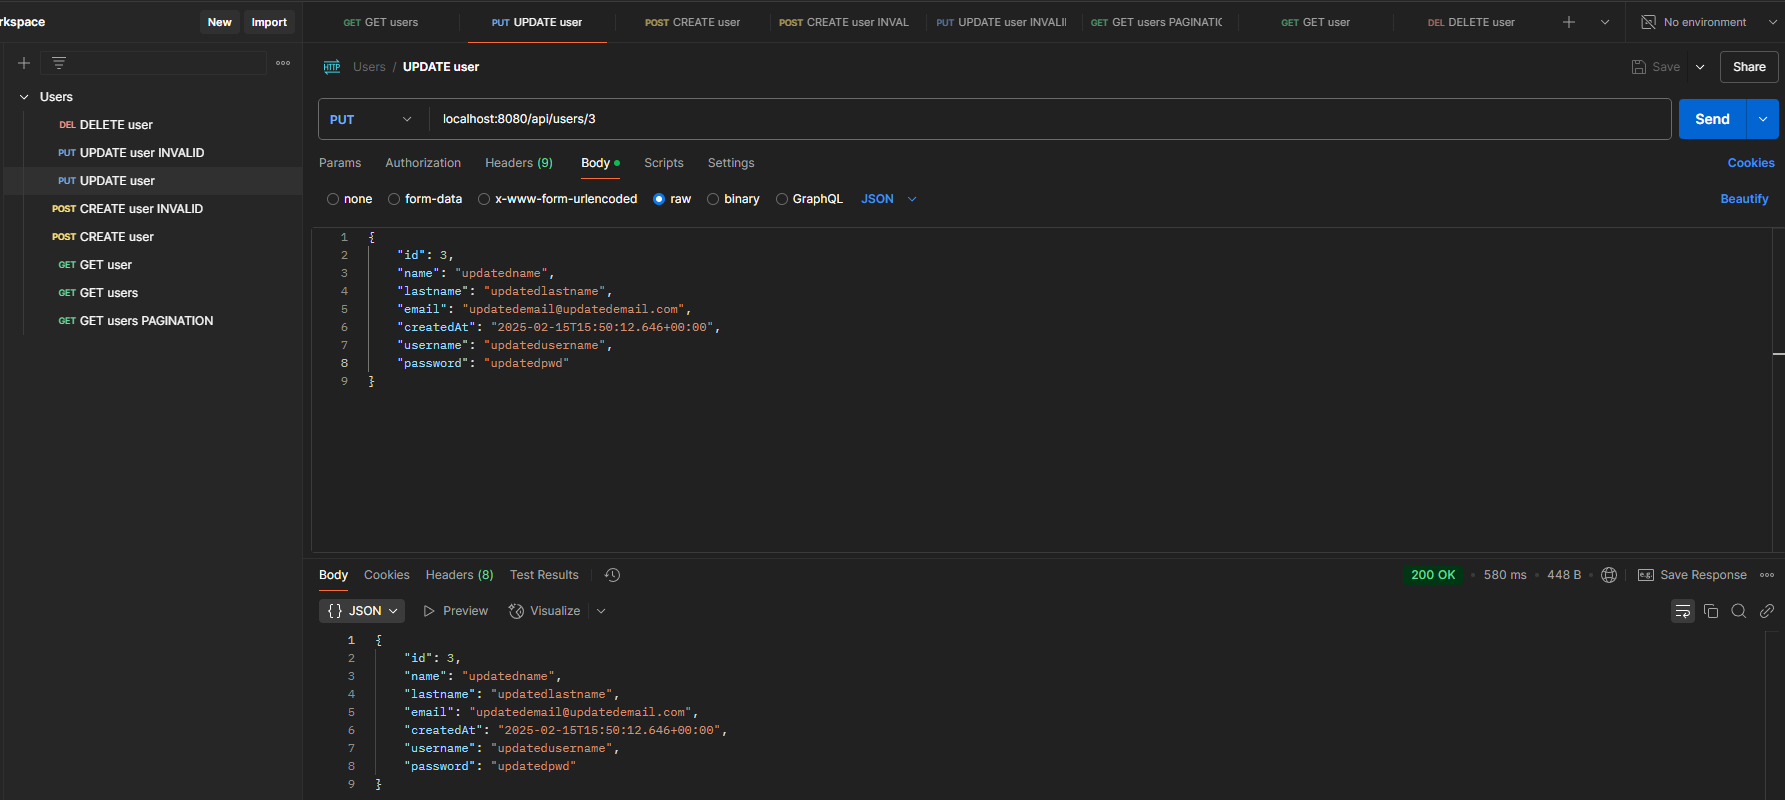
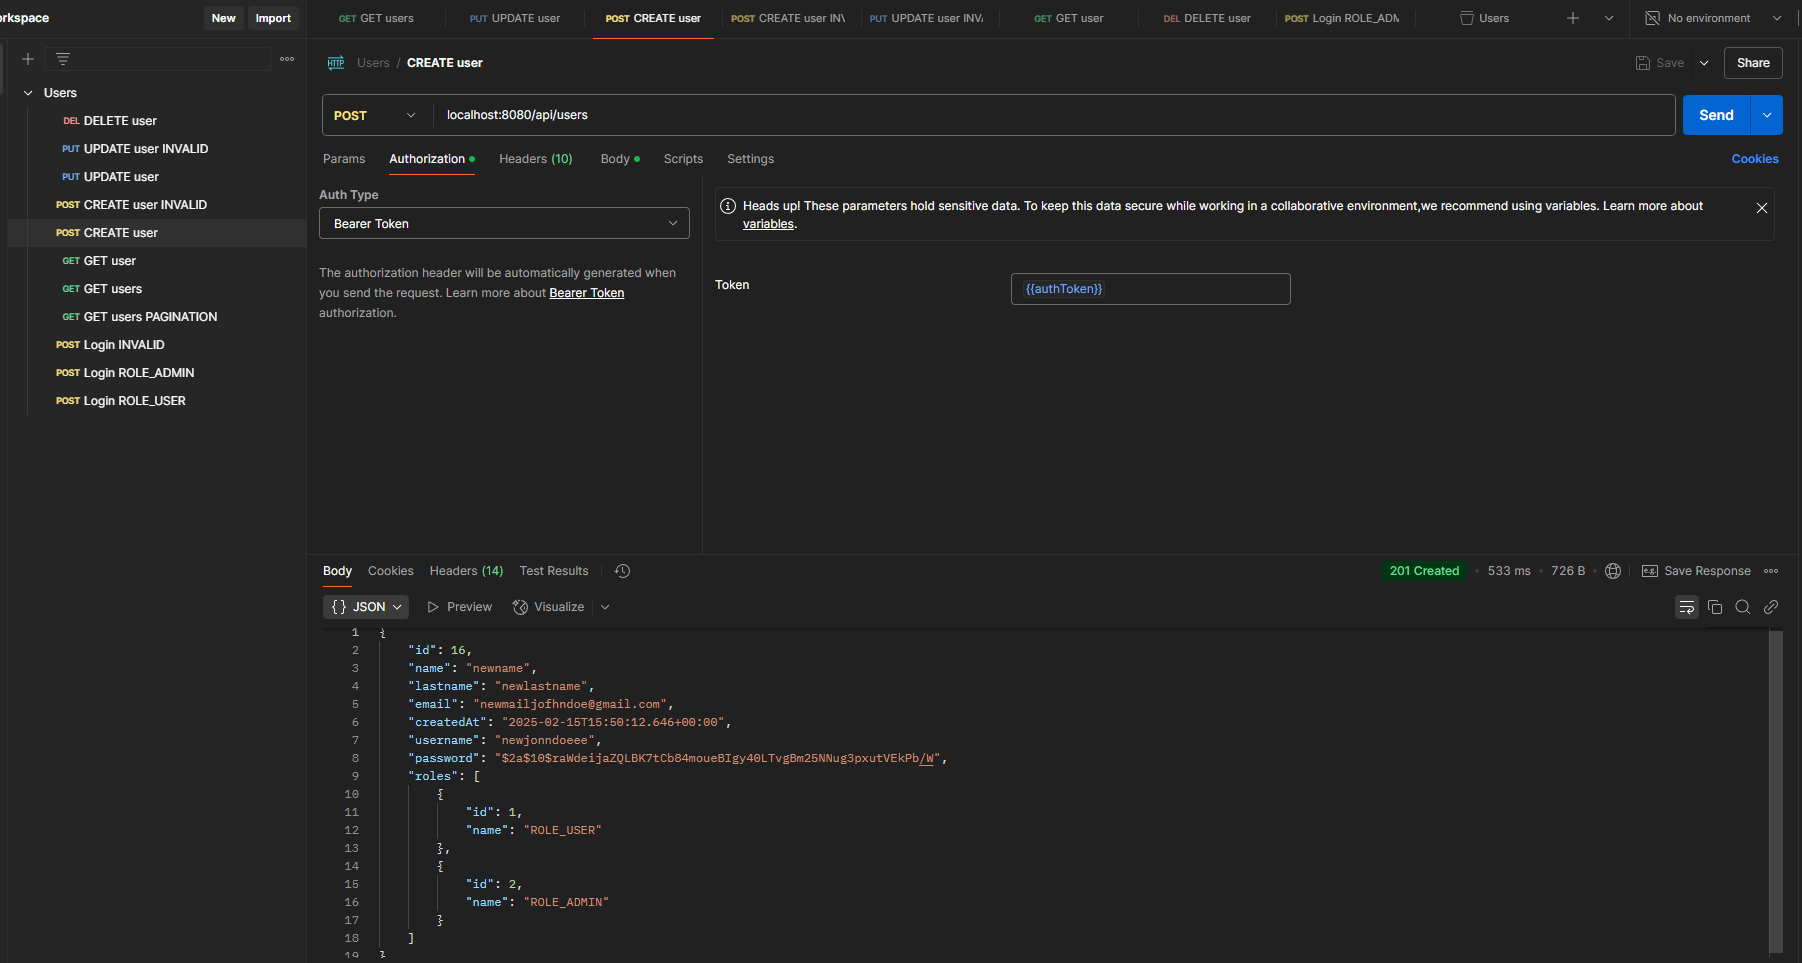
implementing roles for new users

diff --git a/fullstack-CRUD-users-app/spboot-user-app/users-backend/src/main/java/com/springboot/backend/ecristobale/usersapp/users_backend/services/UserServiceImpl.java b/fullstack-CRUD-users-app/spboot-user-app/users-backend/src/main/java/com/springboot/backend/ecristobale/usersapp/users_backend/services/UserServiceImpl.java
@@ -1,5 +1,6 @@
 package com.springboot.backend.ecristobale.usersapp.users_backend.services;
 
+import java.util.ArrayList;
 import java.util.List;
 import java.util.Optional;
 
@@ -10,19 +11,25 @@ import org.springframework.security.crypto.password.PasswordEncoder;
 import org.springframework.stereotype.Service;
 import org.springframework.transaction.annotation.Transactional;
 
+import com.springboot.backend.ecristobale.usersapp.users_backend.entities.Role;
 import com.springboot.backend.ecristobale.usersapp.users_backend.entities.User;
+import com.springboot.backend.ecristobale.usersapp.users_backend.models.IUser;
 import com.springboot.backend.ecristobale.usersapp.users_backend.models.UserRequest;
+import com.springboot.backend.ecristobale.usersapp.users_backend.repositories.RoleRepository;
 import com.springboot.backend.ecristobale.usersapp.users_backend.repositories.UserRepository;
 
 @Service
 public class UserServiceImpl implements UserService {
 
     private UserRepository userRepository;
+    private RoleRepository roleRepository;
 
     private PasswordEncoder passwordEncoder;
 
-    public UserServiceImpl(UserRepository userRepository, PasswordEncoder passwordEncoder) {
+    public UserServiceImpl(UserRepository userRepository, RoleRepository roleRepository,
+                            PasswordEncoder passwordEncoder) {
         this.userRepository = userRepository;
+        this.roleRepository = roleRepository;
         this.passwordEncoder = passwordEncoder;
     }
 
@@ -47,6 +54,7 @@ public class UserServiceImpl implements UserService {
     @Transactional
     @Override
     public User save(User user) {
+        user.setRoles(getUserRoles(user));
         user.setPassword(passwordEncoder.encode(user.getPassword()));
         return this.userRepository.save(user);
     }
@@ -64,6 +72,9 @@ public class UserServiceImpl implements UserService {
         userDB.setName(user.getName());
         userDB.setCreatedAt(user.getCreatedAt());
         userDB.setUsername(user.getUsername());
+
+        userDB.setRoles(getUserRoles(user));
+
         return Optional.of(userRepository.save(userDB));
     }
 
@@ -71,6 +82,18 @@ public class UserServiceImpl implements UserService {
     @Override
     public void deleteById(@NonNull Long userId) {
         this.userRepository.deleteById(userId);
+    }
+
+    private List<Role> getUserRoles(IUser user) {
+        List<Role> roles = new ArrayList<>();
+        Optional<Role> optionalRoleUser = roleRepository.findByName("ROLE_USER");
+        optionalRoleUser.ifPresent(roles::add); // same as: ifPresent(role -> roles.add(role));
+
+        if (user.isAdmin()) {
+            Optional<Role> optionalRoleAdmin = roleRepository.findByName("ROLE_ADMIN");
+            optionalRoleAdmin.ifPresent(roles::add);
+        }
+        return roles;
     }
 
 }

diff --git a/fullstack-CRUD-users-app/spboot-user-app/users-backend/src/main/java/com/springboot/backend/ecristobale/usersapp/users_backend/entities/User.java b/fullstack-CRUD-users-app/spboot-user-app/users-backend/src/main/java/com/springboot/backend/ecristobale/usersapp/users_backend/entities/User.java
@@ -5,6 +5,8 @@ import java.util.Date;
 import java.util.List;
 
 import com.fasterxml.jackson.annotation.JsonIgnoreProperties;
+import com.fasterxml.jackson.annotation.JsonProperty;
+import com.springboot.backend.ecristobale.usersapp.users_backend.models.IUser;
 
 import jakarta.persistence.Column;
 import jakarta.persistence.Entity;
@@ -18,6 +20,7 @@ import jakarta.persistence.ManyToMany;
 import jakarta.persistence.Table;
 import jakarta.persistence.Temporal;
 import jakarta.persistence.TemporalType;
+import jakarta.persistence.Transient;
 import jakarta.persistence.UniqueConstraint;
 import jakarta.validation.constraints.Email;
 import jakarta.validation.constraints.NotBlank;
@@ -26,7 +29,7 @@ import jakarta.validation.constraints.Size;
 
 @Entity
 @Table(name = "users")
-public class User {
+public class User implements IUser {
 
     @Id
     @GeneratedValue(strategy = GenerationType.IDENTITY)
@@ -60,6 +63,10 @@ public class User {
     @NotBlank
     @Size(min = 6, max = 60)
     private String password;
+
+    @Transient // This field is not a column
+    @JsonProperty(access = JsonProperty.Access.WRITE_ONLY)
+    private boolean admin;
 
     @JsonIgnoreProperties({"handler", "hibernateLazyInitializer"})
     @ManyToMany(fetch = FetchType.EAGER)
@@ -117,11 +124,19 @@ public class User {
     public void setCreatedAt(Date createdAt) {
         this.createdAt = createdAt;
     }
+
     public List<Role> getRoles() {
         return roles;
     }
     public void setRoles(List<Role> roles) {
         this.roles = roles;
+    }
+
+    public boolean isAdmin() {
+        return admin;
+    }
+    public void setAdmin(boolean admin) {
+        this.admin = admin;
     }
 
     

diff --git a/fullstack-CRUD-users-app/spboot-user-app/users-backend/src/main/java/com/springboot/backend/ecristobale/usersapp/users_backend/models/UserRequest.java b/fullstack-CRUD-users-app/spboot-user-app/users-backend/src/main/java/com/springboot/backend/ecristobale/usersapp/users_backend/models/UserRequest.java
@@ -7,7 +7,7 @@ import jakarta.validation.constraints.NotBlank;
 import jakarta.validation.constraints.NotNull;
 import jakarta.validation.constraints.Size;
 
-public class UserRequest {
+public class UserRequest implements IUser {
 
     @NotBlank
     private String name;
@@ -25,6 +25,8 @@ public class UserRequest {
     @NotBlank
     @Size(min = 8, max = 30)
     private String username;
+
+    private boolean admin;
 
     public String getName() {
         return name;
@@ -55,6 +57,12 @@ public class UserRequest {
     }
     public void setUsername(String username) {
         this.username = username;
+    }
+    public boolean isAdmin() {
+        return admin;
+    }
+    public void setAdmin(boolean admin) {
+        this.admin = admin;
     }
 
     

diff --git a/fullstack-CRUD-users-app/spboot-user-app/users-backend/src/main/java/com/springboot/backend/ecristobale/usersapp/users_backend/repositories/RoleRepository.java b/fullstack-CRUD-users-app/spboot-user-app/users-backend/src/main/java/com/springboot/backend/ecristobale/usersapp/users_backend/repositories/RoleRepository.java
@@ -1,0 +1,12 @@
+package com.springboot.backend.ecristobale.usersapp.users_backend.repositories;
+
+import java.util.Optional;
+
+import org.springframework.data.repository.CrudRepository;
+
+import com.springboot.backend.ecristobale.usersapp.users_backend.entities.Role;
+
+public interface RoleRepository extends CrudRepository<Role, Long> {
+
+    Optional<Role> findByName(String name);
+}

diff --git a/fullstack-CRUD-users-app/spboot-user-app/users-backend/src/main/java/com/springboot/backend/ecristobale/usersapp/users_backend/models/IUser.java b/fullstack-CRUD-users-app/spboot-user-app/users-backend/src/main/java/com/springboot/backend/ecristobale/usersapp/users_backend/models/IUser.java
@@ -1,0 +1,6 @@
+package com.springboot.backend.ecristobale.usersapp.users_backend.models;
+
+public interface IUser {
+
+    boolean isAdmin();
+}
